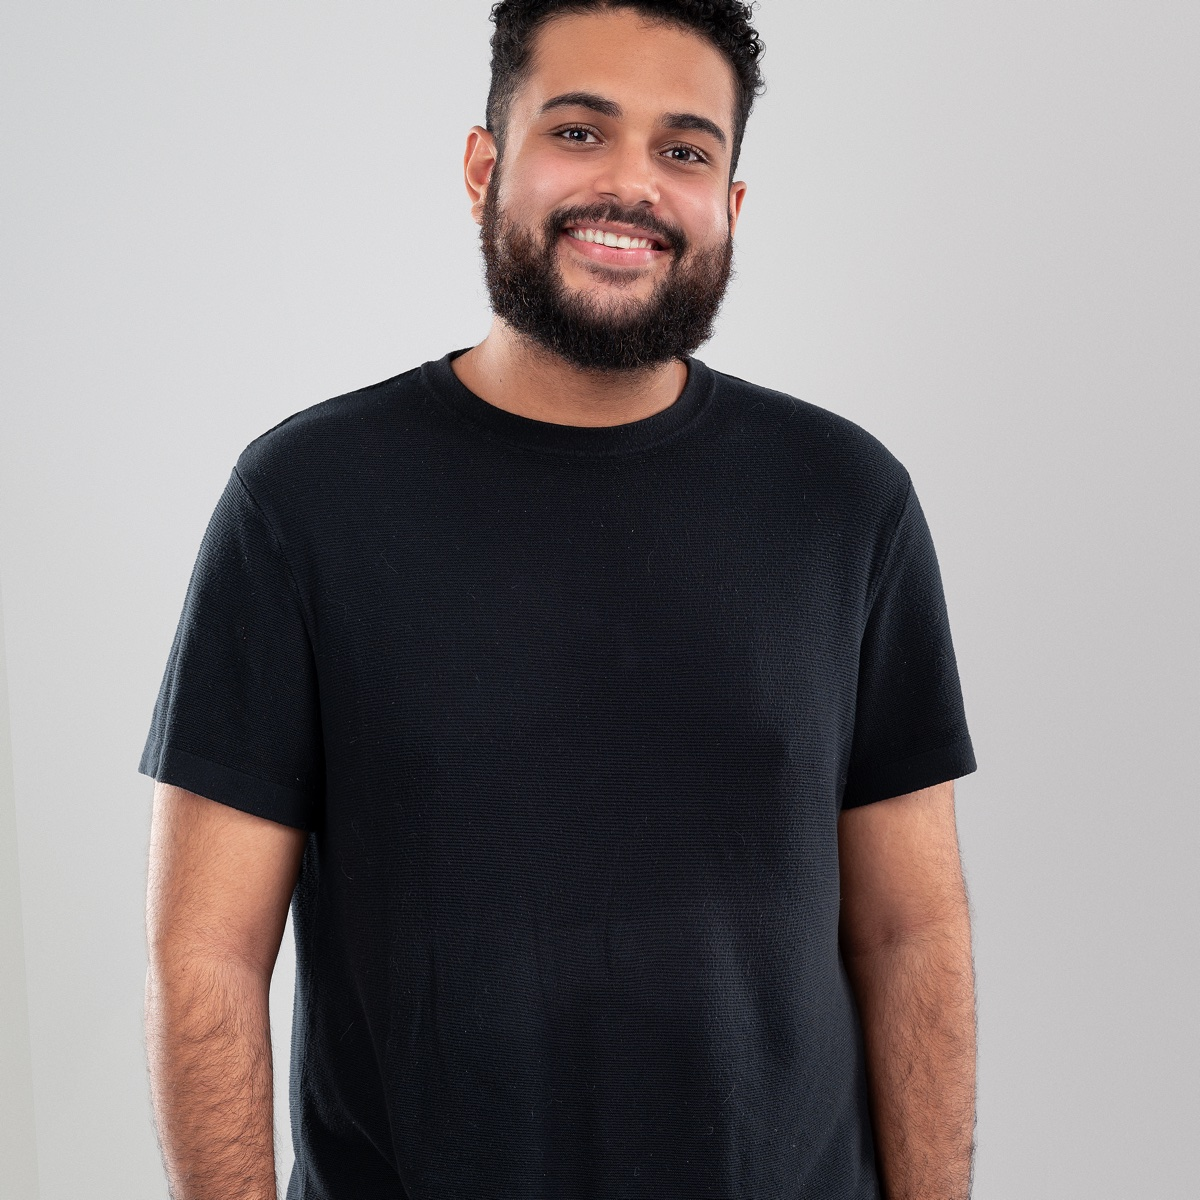
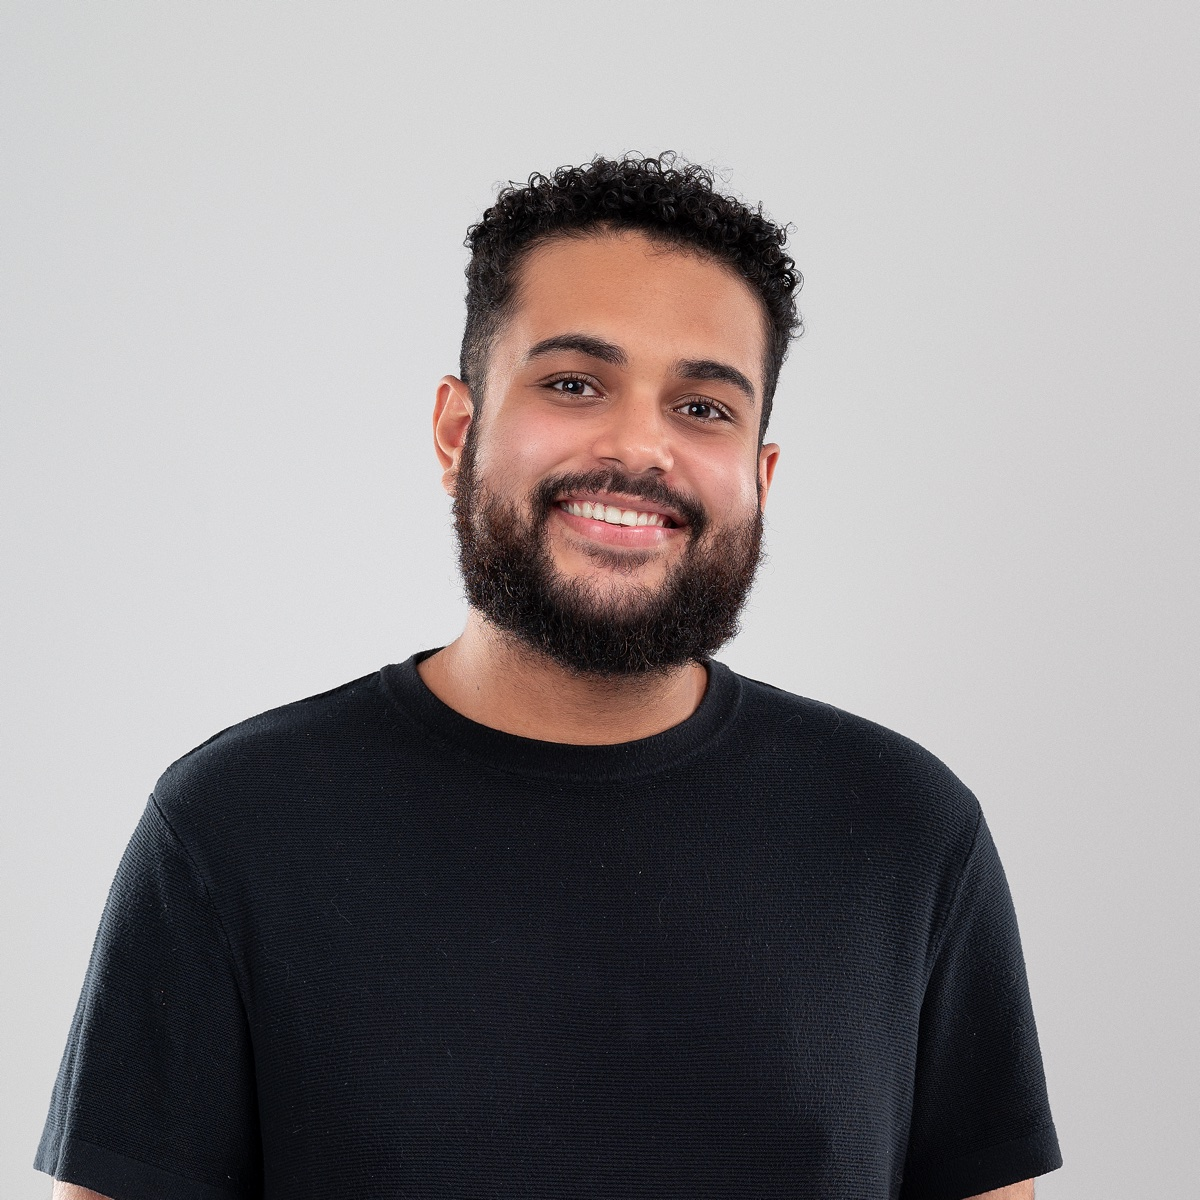
foto: recrop apertado (head-and-shoulders) — headroom + sem barriga
Crop anterior 4050x4050 do topo deixava cabeça colada na borda
superior e descia até o quadril. Recrop 3300x3300 com offset (400,375)
adiciona ~350px de headroom, posiciona olhos em ~⅓ do topo (regra dos
terços) e termina na altura do peito.

diff --git a/src/components/Hero.tsx b/src/components/Hero.tsx
@@ -91,7 +91,7 @@ export function Hero() {
 
             <div className="mb-3 hairline rounded-[4px] overflow-hidden bg-bg-2 aspect-square">
               <img
-                src="/me.jpg?v=3"
+                src="/me.jpg?v=4"
                 alt={ME.nome}
                 width={1200}
                 height={1200}